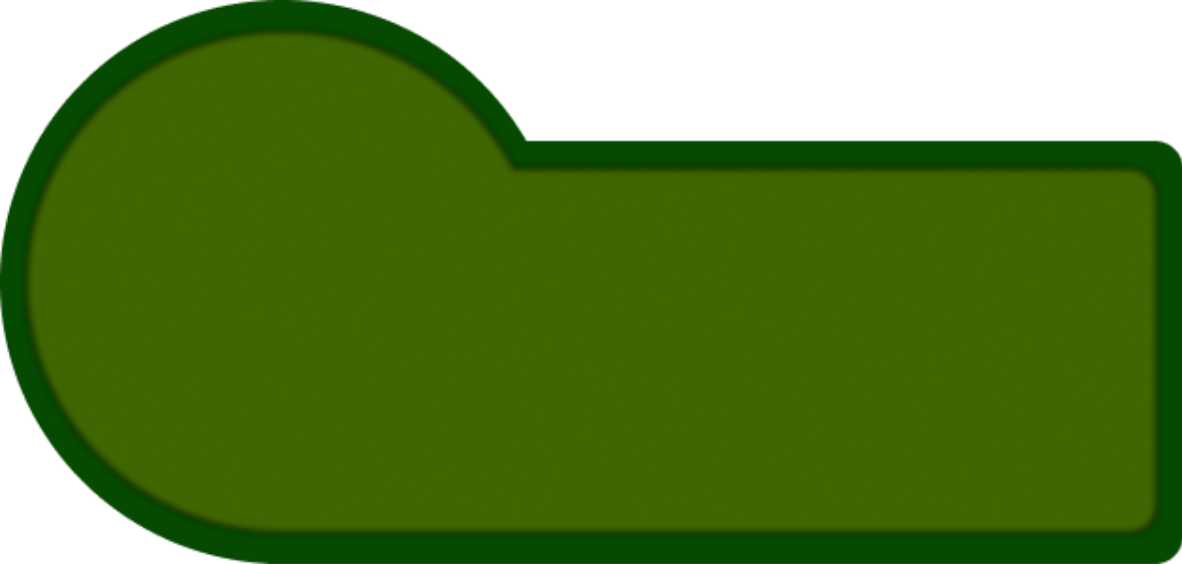
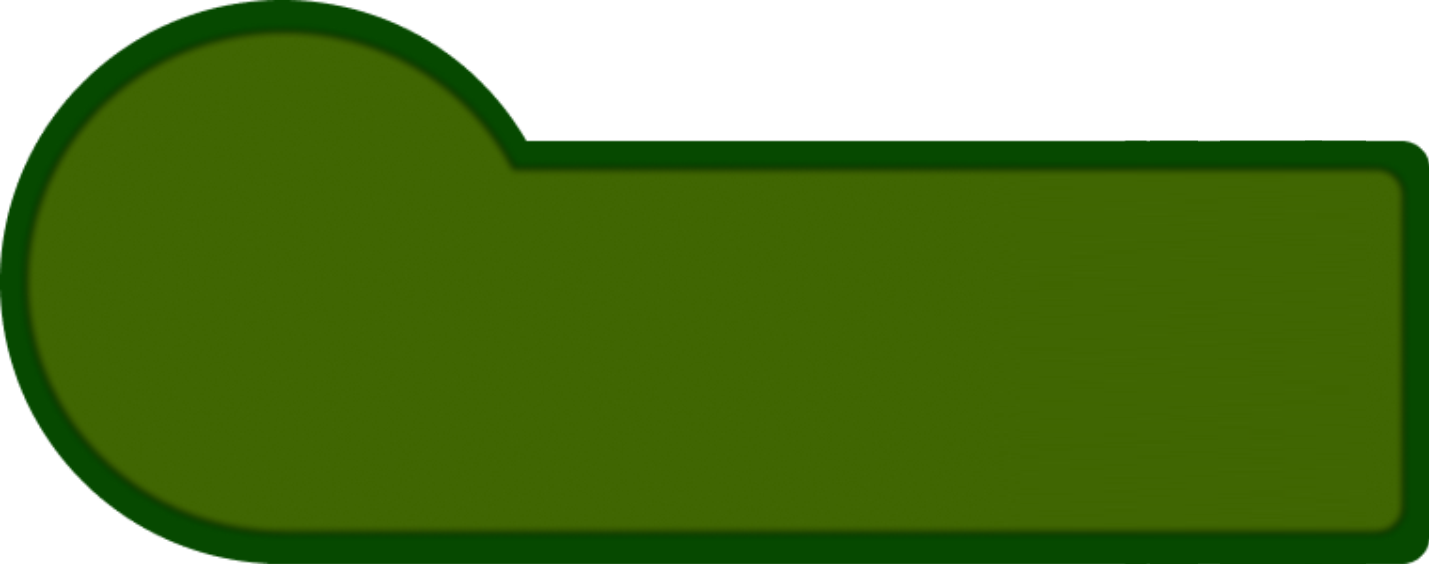
Fixed table shape not being adecquate

diff --git a/style.css b/style.css
@@ -93,9 +93,9 @@ section {
 }
 
 #roulette-container {
-	left: calc(2500% / 630);
+	left: calc(2500% / 762);
 	top: calc(2500% / 300);
-	width: calc(25000% / 630);
+	width: calc(25000% / 762);
 	height: calc(25000% / 300);
 	transform: scale(calc(35/33));
 }
@@ -125,10 +125,10 @@ section {
 }
 
 #layout-container {
-	right: calc(2500% / 630);
-	bottom: calc(2500% / 300);
-	width: calc(33000% / 630);
-	height: calc(calc(33000% * 5 / 14) / 300);
+	right: calc(3000% / 762);
+	bottom: calc(3000% / 300);
+	width: calc(43700% / 762);
+	height: calc(calc(43700% * 5 / 14) / 300);
 }
 
 #bet-input, #chip-indicator {
@@ -137,21 +137,21 @@ section {
 
 @media only screen and (max-width: 576px){
 	#main>img {
-		transform: rotate(90deg) scale(calc(630/300), calc(300/630));
+		transform: rotate(90deg) scale(calc(762/300), calc(300/762));
 	}
 
 	#roulette-container {
 		left: calc(2500% / 300);
-		top: calc(2500% / 630);
+		top: calc(2500% / 762);
 		width: calc(25000% / 300);
-		height: calc(25000% / 630);
+		height: calc(25000% / 762);
 	}
 
 	#layout-container {
-		left: calc(2500% / 300);
-		bottom: calc(2500% / 630);
-		width: calc(calc(33000% * 5 / 14) / 300);
-		height: calc(33000% / 630);
+		left: calc(3000% / 300);
+		bottom: calc(3000% / 762);
+		width: calc(calc(43700% * 5 / 14) / 300);
+		height: calc(43700% / 762);
 	}
 }
 
@@ -165,5 +165,3 @@ section {
 #roulette-ball {
     border: 1px dashed grey;
 }
-
-/*background: 630x300 & 600x275*/

diff --git a/main.js b/main.js
@@ -3,7 +3,7 @@ const {app, BrowserWindow, ipcMain} = require('electron')
 const path = require('path')
 
 const headerHeight = 60
-const tableWidth = 630
+const tableWidth = 762
 const tableHeight = 300
 
 require('electron-reload')(__dirname, {
@@ -15,10 +15,10 @@ function createWindow () {
 
   // Create the browser window.
   const mainWindow = new BrowserWindow({
-    width: 630*1.8,
-    height: 360*1.8,
-    minWidth: 630*0.6,
-    minHeight: 360*0.6,
+    width: 762*1.8,
+    height: 300*1.8+60,
+    minWidth: 762*0.6,
+    minHeight: 300*0.6+60,
     frame: false,
     transparent: true,
     webPreferences: {
